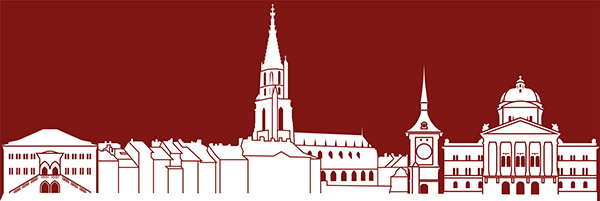
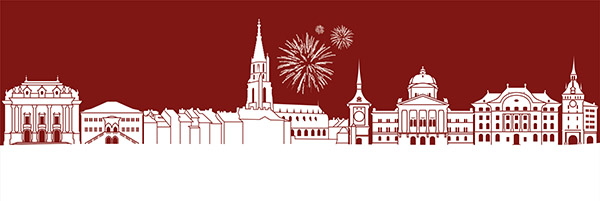
new id and headerimg

diff --git a/src/Components/Footer/index.js b/src/Components/Footer/index.js
@@ -28,7 +28,11 @@ class Footer extends Component {
                 <tbody>
                   <tr style={{ paddingTop: '0.3em' }}>
                     <td>Konzept</td>
-                    <td>Marco Zysset</td>
+                    <td>Stephan Dietrich</td>
+                  </tr>
+                  <tr>
+                    <td>Texte</td>
+                    <td>Redaktion BZ</td>
                   </tr>
                   <tr>
                     <td>Digitale Umsetzung</td>
@@ -44,7 +48,7 @@ class Footer extends Component {
                     />
                     <div className='ui fluid share aligned container'>
                       <ShareButtons
-                        articleId='16267582'
+                        articleId='19111501'
                         displayType={displayTypes.VERTICAL_BUTTONS}
                       />
                     </div>

diff --git a/src/Components/App/index.js b/src/Components/App/index.js
@@ -13,7 +13,7 @@ import Footer from '../Footer';
 function App() {
   return (
     <div className="App red">
-      <Masthead articleId=''/>
+      <Masthead articleId='19111501'/>
       <div className="wrapper">
         <img className = "headerImage" src={Bern} alt="Bern"></img>
         <h1>Das war<br/>2019</h1>

diff --git a/src/Components/Event/index.js b/src/Components/Event/index.js
@@ -6,7 +6,7 @@ import gallery from '../img'
 class Event extends Component {
   state = {
     index:1,
-    visibility: true
+    visibility: false
   };
 
 
